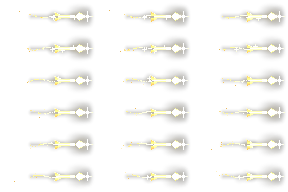
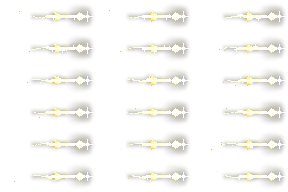
Light arrow and red sword wave: a more refined finish
Arrow: a ribbon trail lit above and shaded below, two motes spiralling the shaft, a faceted head
lit from above, a thin lens flare. Sword wave: a glint travelling the edge horn to horn, lit horn
tips, a dark hairline on the back edge, three short cooling speed lines in the smear.

Claude-Session: https://claude.ai/code/session_0185oZ6r6fULvMuFhSJXetNT

diff --git a/third_party/pixelfx/src/fx/sd/light-arrow.js b/third_party/pixelfx/src/fx/sd/light-arrow.js
@@ -19,13 +19,14 @@ export function draw(p, t, o) {
   const C = fit(o.palette, 8), L = o.length, S = o.seed, D = meta.duration, ph = t / D, fr = Math.floor(t * 30 + 1e-6);
   const left = -meta.origin[0] + 2;
 
-  // the ribbon of light behind: a thin wavering band that thins and cools as it trails off
-  for (let d = L * 0.8; d < L * 2.4; d += 0.5) {
-    const u = (d - L * 0.8) / (L * 1.6), y = 0.5 + Math.sin(d * 0.22 - ph * TAU * 2) * (0.4 + u * 1.6);
-    if (-d < left || rand(Math.floor(d), fr) < u * 0.55) continue;
-    p.dot(-d, y, u < 0.25 ? C[6] : u < 0.55 ? C[5] : C[4]);
+  // the trail: a single ribbon of light, 3 px at the fletching thinning to a thread, rippling gently and cooling
+  for (let d = L * 0.75; d < L * 2.3; d += 0.5) {
+    const u = (d - L * 0.75) / (L * 1.55), y = 0.5 + Math.sin(d * 0.2 - ph * TAU * 2) * u * 1.4;
+    if (-d < left || (u > 0.55 && rand(Math.floor(d), fr) < (u - 0.55) * 1.6)) continue;
+    p.dot(-d, y, u < 0.3 ? WHITE : u < 0.6 ? C[6] : C[5]);
+    if (u < 0.5) { p.dot(-d, y - 1, C[5]); p.dot(-d, y + 1, C[4]); }     // lit above, a step darker below
   }
-  p.glowLine(-L * 0.8, 0.5, -L * 2.2, 0.5, 5, C[4], 0.2);
+  p.glowLine(-L * 0.75, 0.5, -L * 2.1, 0.5, 6, C[4], 0.25);
 
   // motes shed off the shaft: they drift back and fade; a few wink as glints
   beat(t, D, 12, S, (r) => r.range(0.2, 0.34), (age, life, r) => {
@@ -60,8 +61,22 @@ export function draw(p, t, o) {
     if (d < 0 || d > 12) return;
     const w = d < 8 ? d * 0.55 : (12 - d) * 1.1;                         // widest 8 px back, then closes on the shaft
     if (v > w) return;
-    return v < w - 1.6 ? (d < 6 ? WHITE : C[6]) : v < w - 0.6 ? C[5] : C[3];
+    const lower = y > 0.5;                                                 // lit from above: the lower facet a step down
+    return v < w - 1.6 ? (d < 6 ? (lower ? C[6] : WHITE) : lower ? C[5] : C[6]) : v < w - 0.6 ? (lower ? C[4] : C[5]) : C[3];
   });
+
+  // two motes of light spiralling the shaft, hidden as they pass behind it
+  for (const sgn of [0, Math.PI]) {
+    for (let d = 2; d < L - 2; d += 0.5) {
+      const a = d * 0.5 - ph * TAU * 3 + sgn, y = 0.5 + Math.sin(a) * 2.4;
+      if (Math.cos(a) > 0.92) p.dot(-d, y, WHITE);
+      else if (Math.cos(a) > 0.75) p.dot(-d, y, C[5]);
+    }
+  }
+  // a lens flare on the head: a thin horizontal streak and a small cross
+  const fl2 = 0.7 + 0.3 * Math.sin(ph * TAU * 2);
+  p.glowLine(-8, 0.5, 16, 0.5, 2, WHITE, 0.25 * fl2);
+  p.line(9, 0.5, 13, 0.5, C[6]);
 
   // the light it carries
   const g = 0.8 + 0.2 * Math.sin(ph * TAU * 2);

diff --git a/third_party/pixelfx/src/fx/sd/red-sword-wave.js b/third_party/pixelfx/src/fx/sd/red-sword-wave.js
@@ -61,11 +61,31 @@ export function draw(p, t, o) {
     if (u > 0.35 && bayer < (u - 0.35) / 0.65) return;
     return u < 0.35 ? C[3] : u < 0.65 ? C[2] : C[1];
   });
+  // speed lines: three short streaks raking back from the blade, hot at the blade and cooling to nothing
+  for (const [yy, len, off] of [[-0.45, 9, 0], [0.05, 13, 0.4], [0.5, 7, 0.75]]) {
+    const y = Math.round(0.5 + yy * h), xo = -R + Math.sqrt(Math.max(0, R * R - (yy * h) ** 2)) - 6;
+    const sh = ((ph * 2 + off) % 1) * 6;
+    for (let k = 0; k < len; k++) p.dot(xo - sh - k, y, k < len * 0.3 ? C[4] : k < len * 0.65 ? C[3] : C[2]);
+  }
   crescent(p, C, 0, R, 5, h, 1, pulse);
 
-  // the light: a red bloom on the body, a hot glint on the edge and at each horn
-  p.glow(-3, 0.5, H * 1.1, C[3], 0.55);
-  p.glow(1, 0.5, 8, C[6], 0.35);
+  // a dark hairline on its back edge, so the blade reads crisp against the smear and any background
+  for (let yy = -h + 2; yy <= h - 2; yy++) {
+    const xo = -R + Math.sqrt(Math.max(0, R * R - yy * yy)), xi = xo - 5 * Math.sqrt(Math.max(0, 1 - (yy / h) ** 2));
+    p.dot(Math.floor(xi) - 1, yy + 0.5, C[1]);
+  }
+  // a glint travelling the cutting edge from horn to horn, and the horns' tips catching the light
+  const gy = -h + ((ph * 2) % 1) * 2 * h, gx = -R + Math.sqrt(Math.max(0, R * R - gy * gy));
+  sparkle(p, gx, gy + 0.5, 2, WHITE, C[6], 0.5);
+  for (const sgn of [-1, 1]) {
+    const ty = sgn * (h - 0.5), tx = -R + Math.sqrt(Math.max(0, R * R - ty * ty));
+    p.dot(tx, ty + 0.5, WHITE);
+    p.glow(tx, ty + 0.5, 3, C[5], 0.4);
+  }
+
+  // the light: a crimson bloom on the body, a hot core at the centre of the edge
+  p.glow(-4, 0.5, H * 1.15, C[3], 0.5);
+  p.glow(1, 0.5, 7, C[6], 0.35);
   sparkle(p, 1, 0.5 + wob * 2, 3, WHITE, C[6], 0.45);
 
 }
